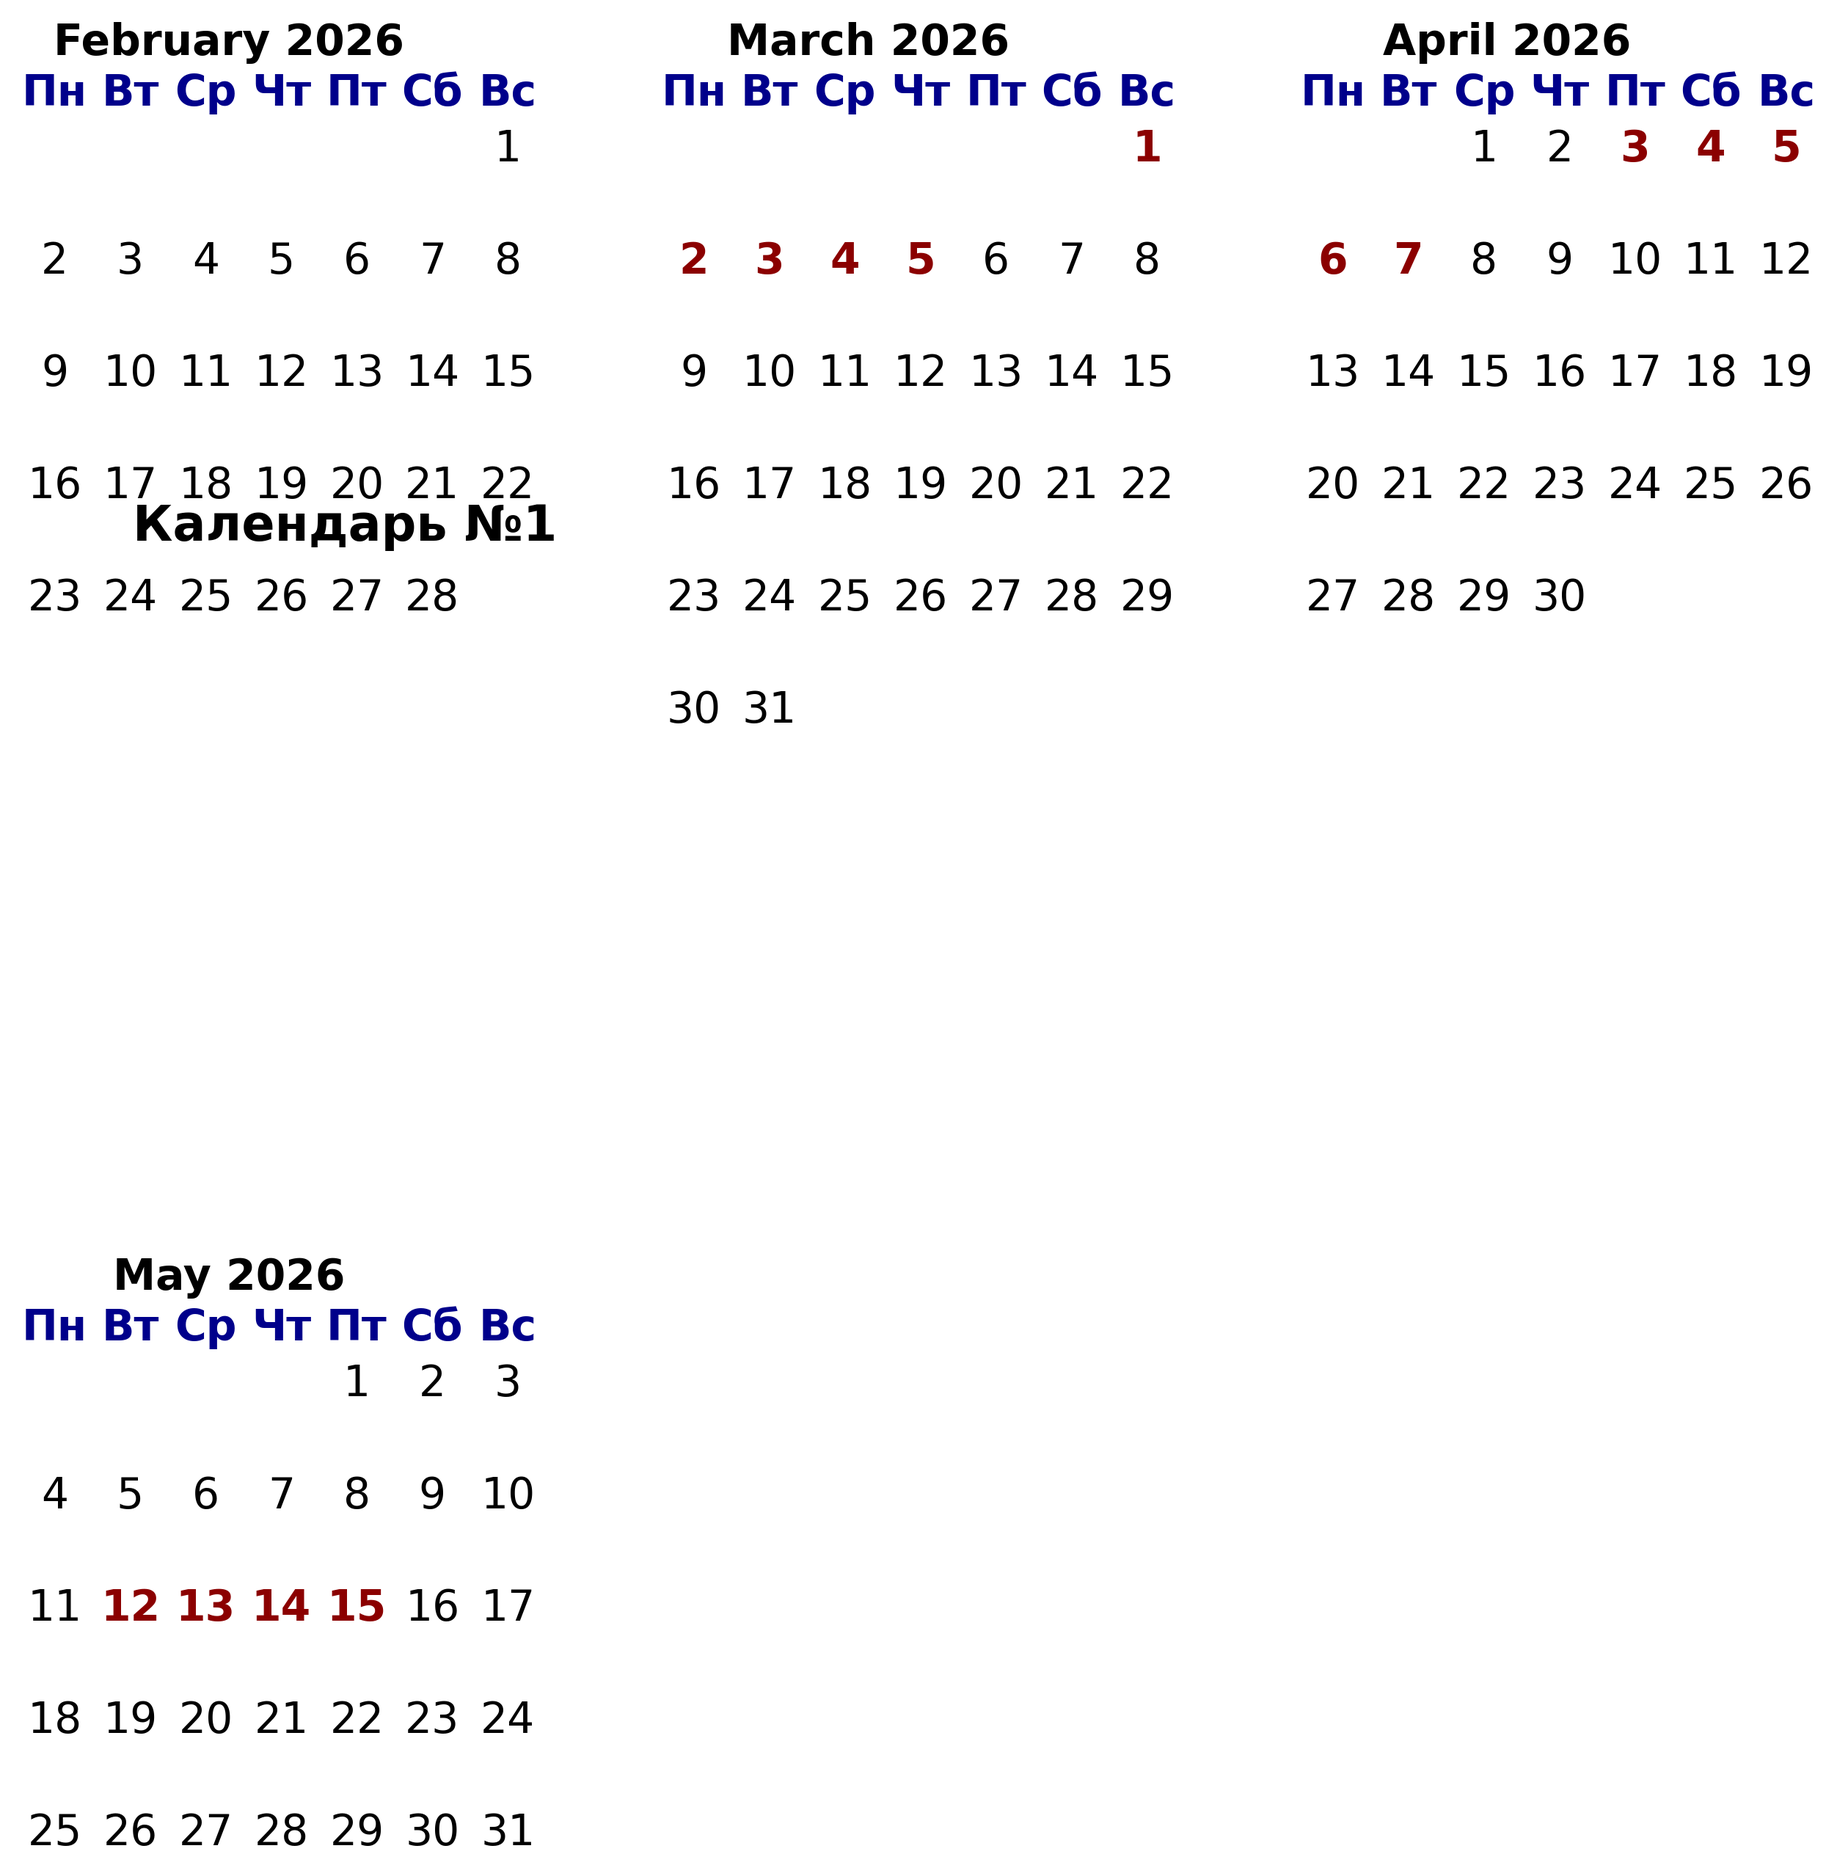
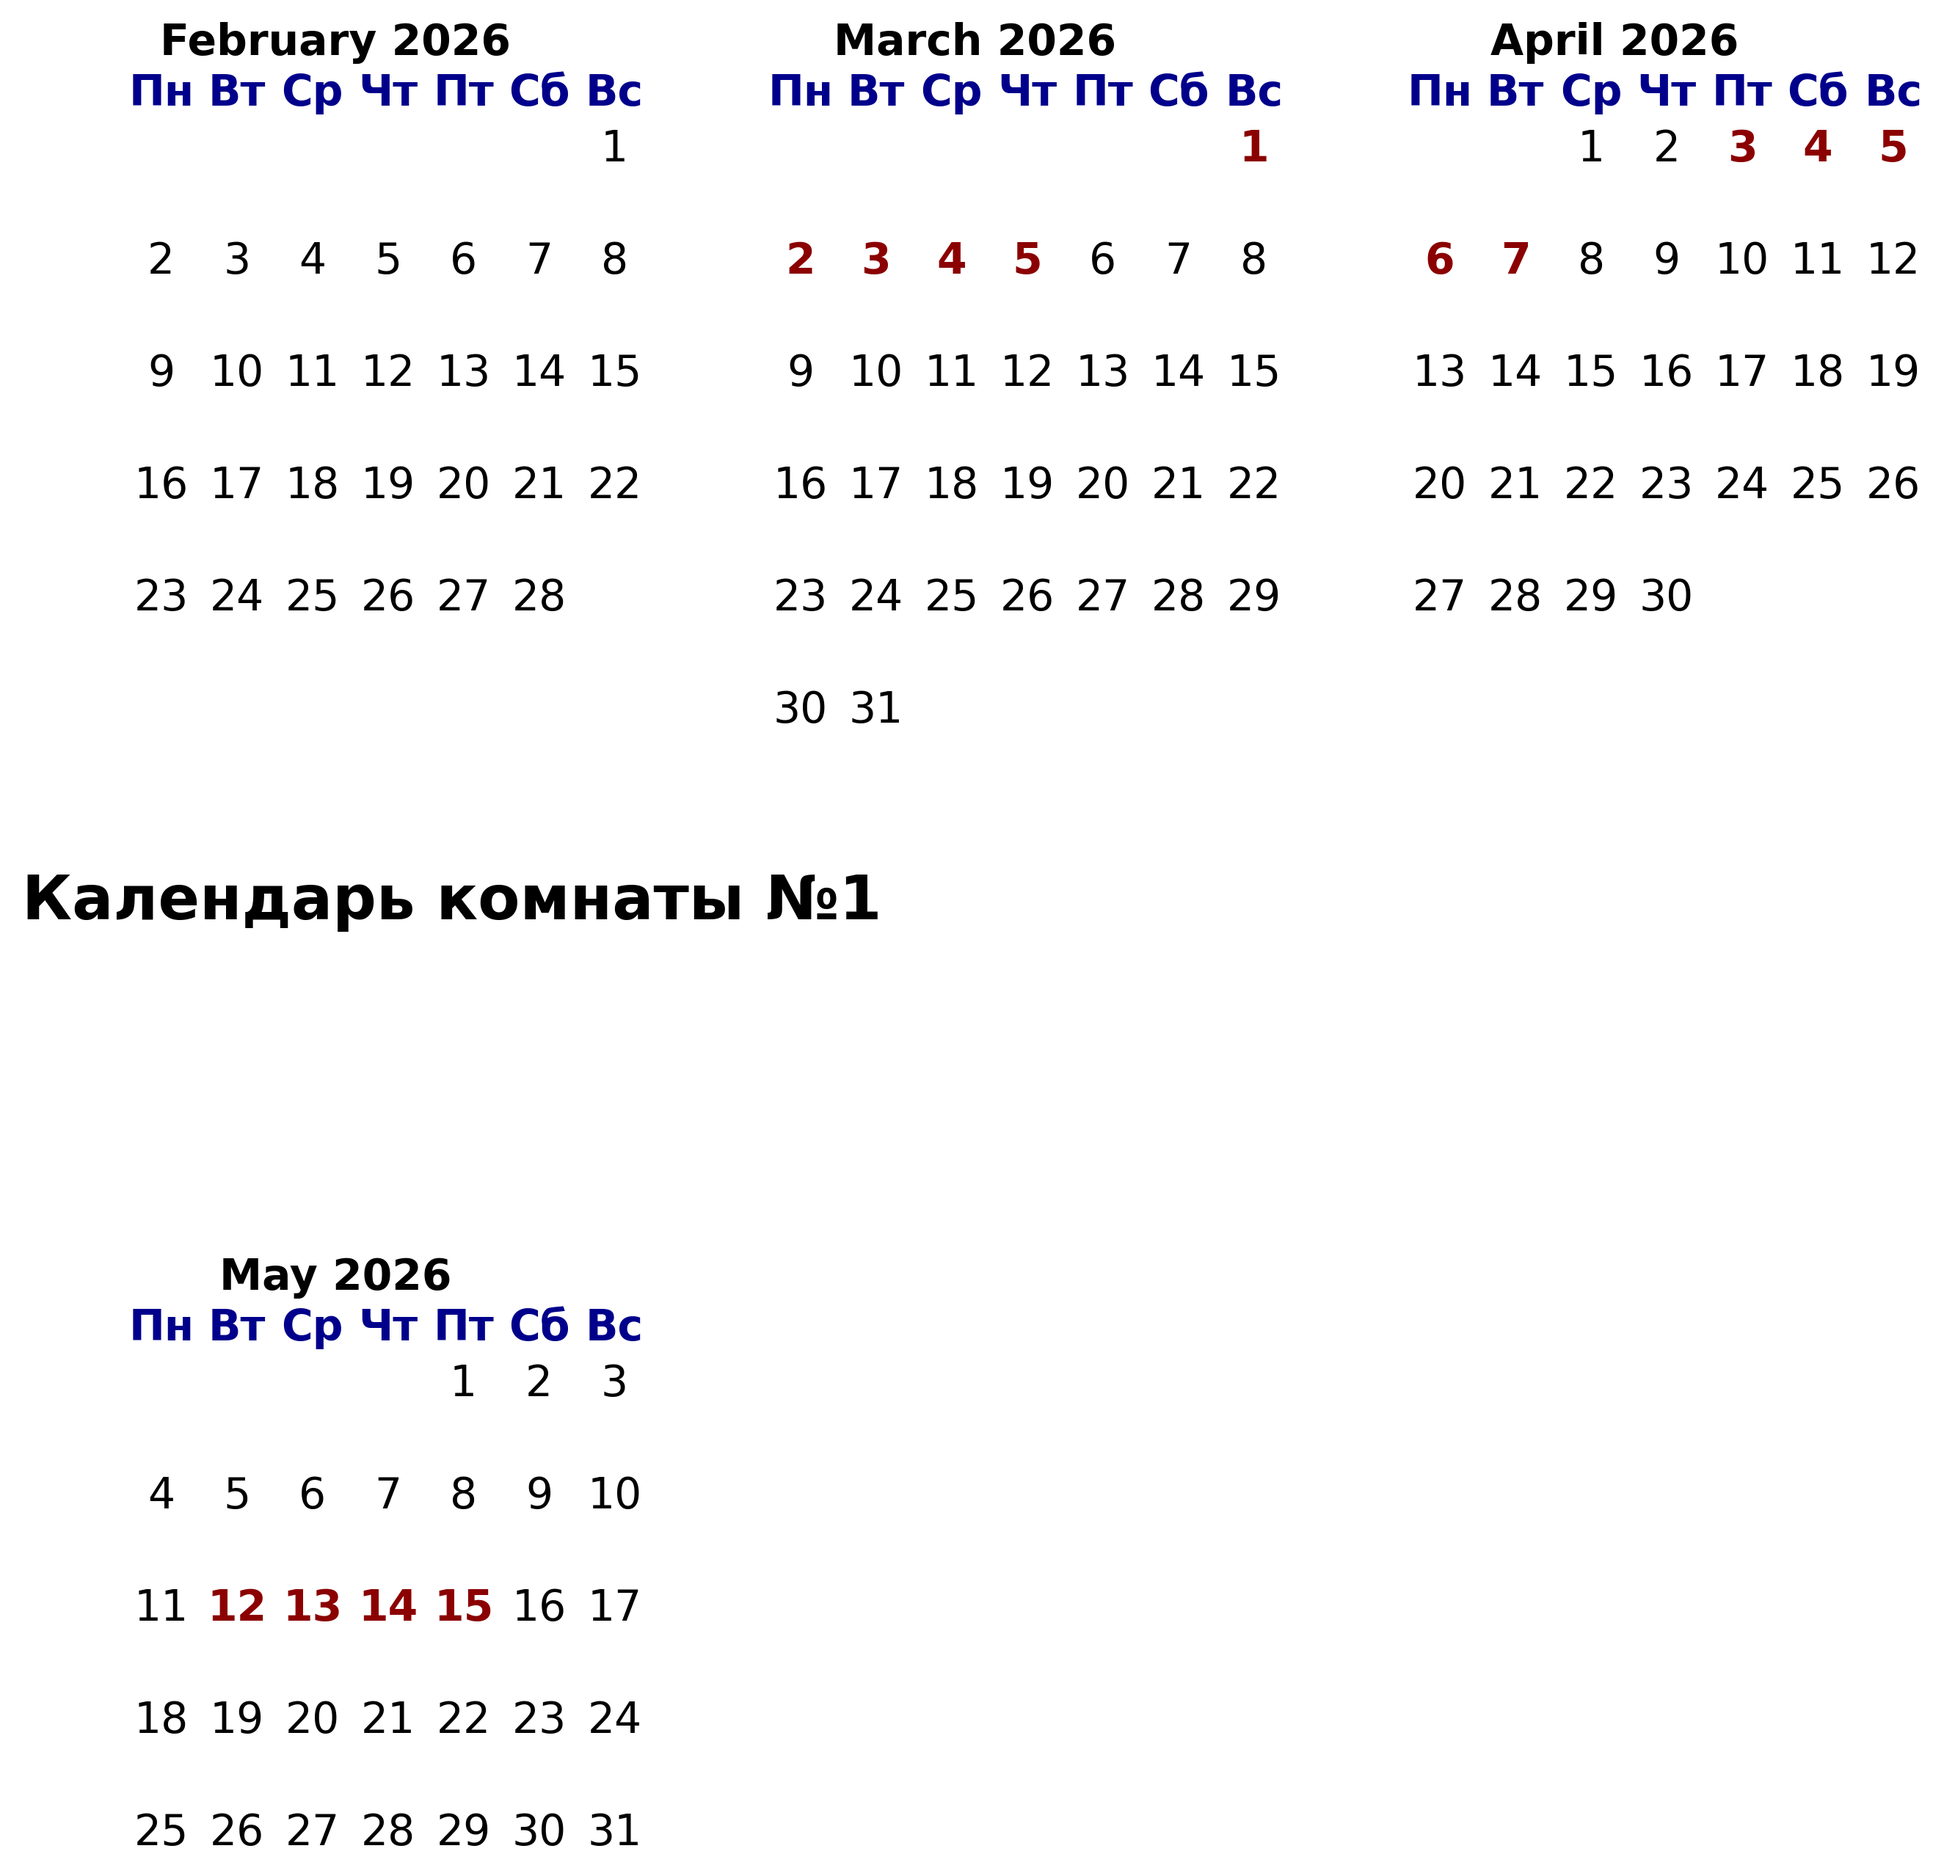
1

diff --git a/.venv/app/api/calendar_pgn.py b/.venv/app/api/calendar_pgn.py
@@ -44,10 +44,10 @@ def create_calendar_plot(periods, min_date, max_date, room_id):
     ax.axis('off')
 
     # Добавляем общий заголовок для всего календаря
-    fig.suptitle(f"Календарь №{room_id}",
-                fontsize=16,
+    fig.suptitle(f"Календарь комнаты №{room_id}",
+                fontsize=20,
                 fontweight='bold',
-                y=0.98)  # позиция по вертикали (0.98 — близко к верхнему краю)
+                y=0.7)  # позиция по вертикали (0.98 — близко к верхнему краю)
 
     # Функция для отрисовки месяца в сетке
     def draw_month_in_grid(year, month, grid_x, grid_y):
